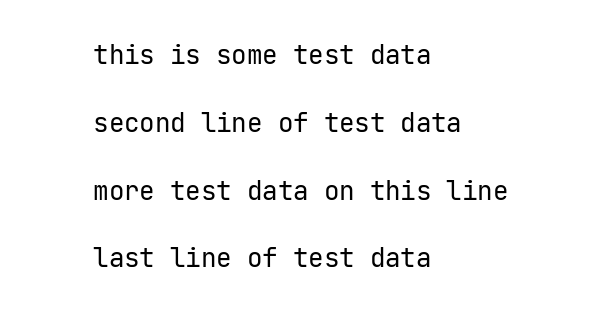
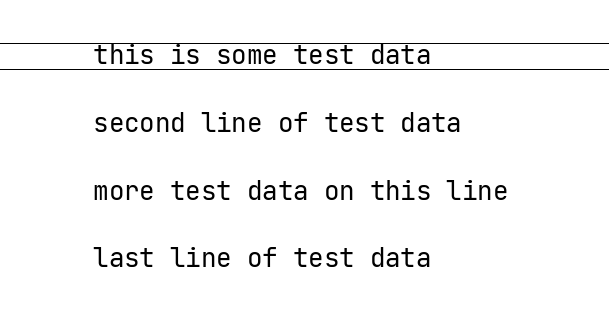
fixed seg fault in append_list

Changed region(s): [[0.0, 0.1987, 1.0, 0.2271], [0.0, 0.1136, 1.0, 0.142]]

diff --git a/src/computer_vision/src/character_detection.c b/src/computer_vision/src/character_detection.c
@@ -17,6 +17,8 @@ document * initialise_document() {
     new_document_p->detect_words      =    &detect_words;
     new_document_p->detect_characters =    &detect_characters;
 
+    new_document_p->lines = NULL;
+
     return new_document_p;
 
 };
@@ -101,9 +103,13 @@ void detect_lines(document * self, matrix * image){
         adjusted_lines[i].y -= padding;
         adjusted_lines[i].h += padding * 2;
 
-        /* line * line_p = (line *) doc_type_constructor(Line, image, 0, adjusted_lines[i].y, image->x, adjusted_lines[i].h); */
+        line * line_p = (line *) doc_type_constructor(Line, image, 0, adjusted_lines[i].y, image->x, adjusted_lines[i].h);
 
-        /* append_list(self->lines, line_p, Line); */
+        if (!self->lines) {
+            self->lines = line_p;
+        } else {
+            append_list(self->lines, line_p, Line);
+        }
 
     }
 
@@ -194,42 +200,12 @@ void * doc_type_constructor(doc_types required_type, matrix * matrix_p, int x, i
 void append_list(void * current, void * new_element, doc_types type){
 
     // append a new entry to a linked list.
+    node * node_p = (node *) current;
 
-    character * character_p;
-    word * word_p;
-    line * line_p;
-
-    switch(type){
-
-        case Character: 
-
-            character_p = ((character *) current);
-            if (character_p->next) {
-                append_list(character_p->next, new_element, type);
-            } else {
-                character_p->next = new_element;
-            }
-            break;
-
-        case Word:
-
-            word_p = ((word *) current);
-            if (word_p->next) {
-                append_list(word_p->next, new_element, type);
-            } else {
-                word_p->next = new_element;
-            }
-            break;
-
-        case Line:
-
-            line_p = ((line *) current);
-            if (line_p->next) {
-                append_list(line_p->next, new_element, type);
-            } else {
-                line_p->next = new_element;
-            }
-            break;
+    if (node_p->next) {
+        append_list(node_p->next, new_element, type);
+    } else {
+        node_p->next = new_element;
     }
 
 

diff --git a/src/computer_vision/src/image_processing.c b/src/computer_vision/src/image_processing.c
@@ -306,6 +306,6 @@ void locate_characters(image_data * self) {
 
     /* doc->scan_image(doc, self->greyscale); */
     doc->detect_lines(doc, self->greyscale);
-    /* doc->draw_outlines(doc, self->greyscale); */
+    doc->draw_outlines(doc, self->greyscale);
 
 };
